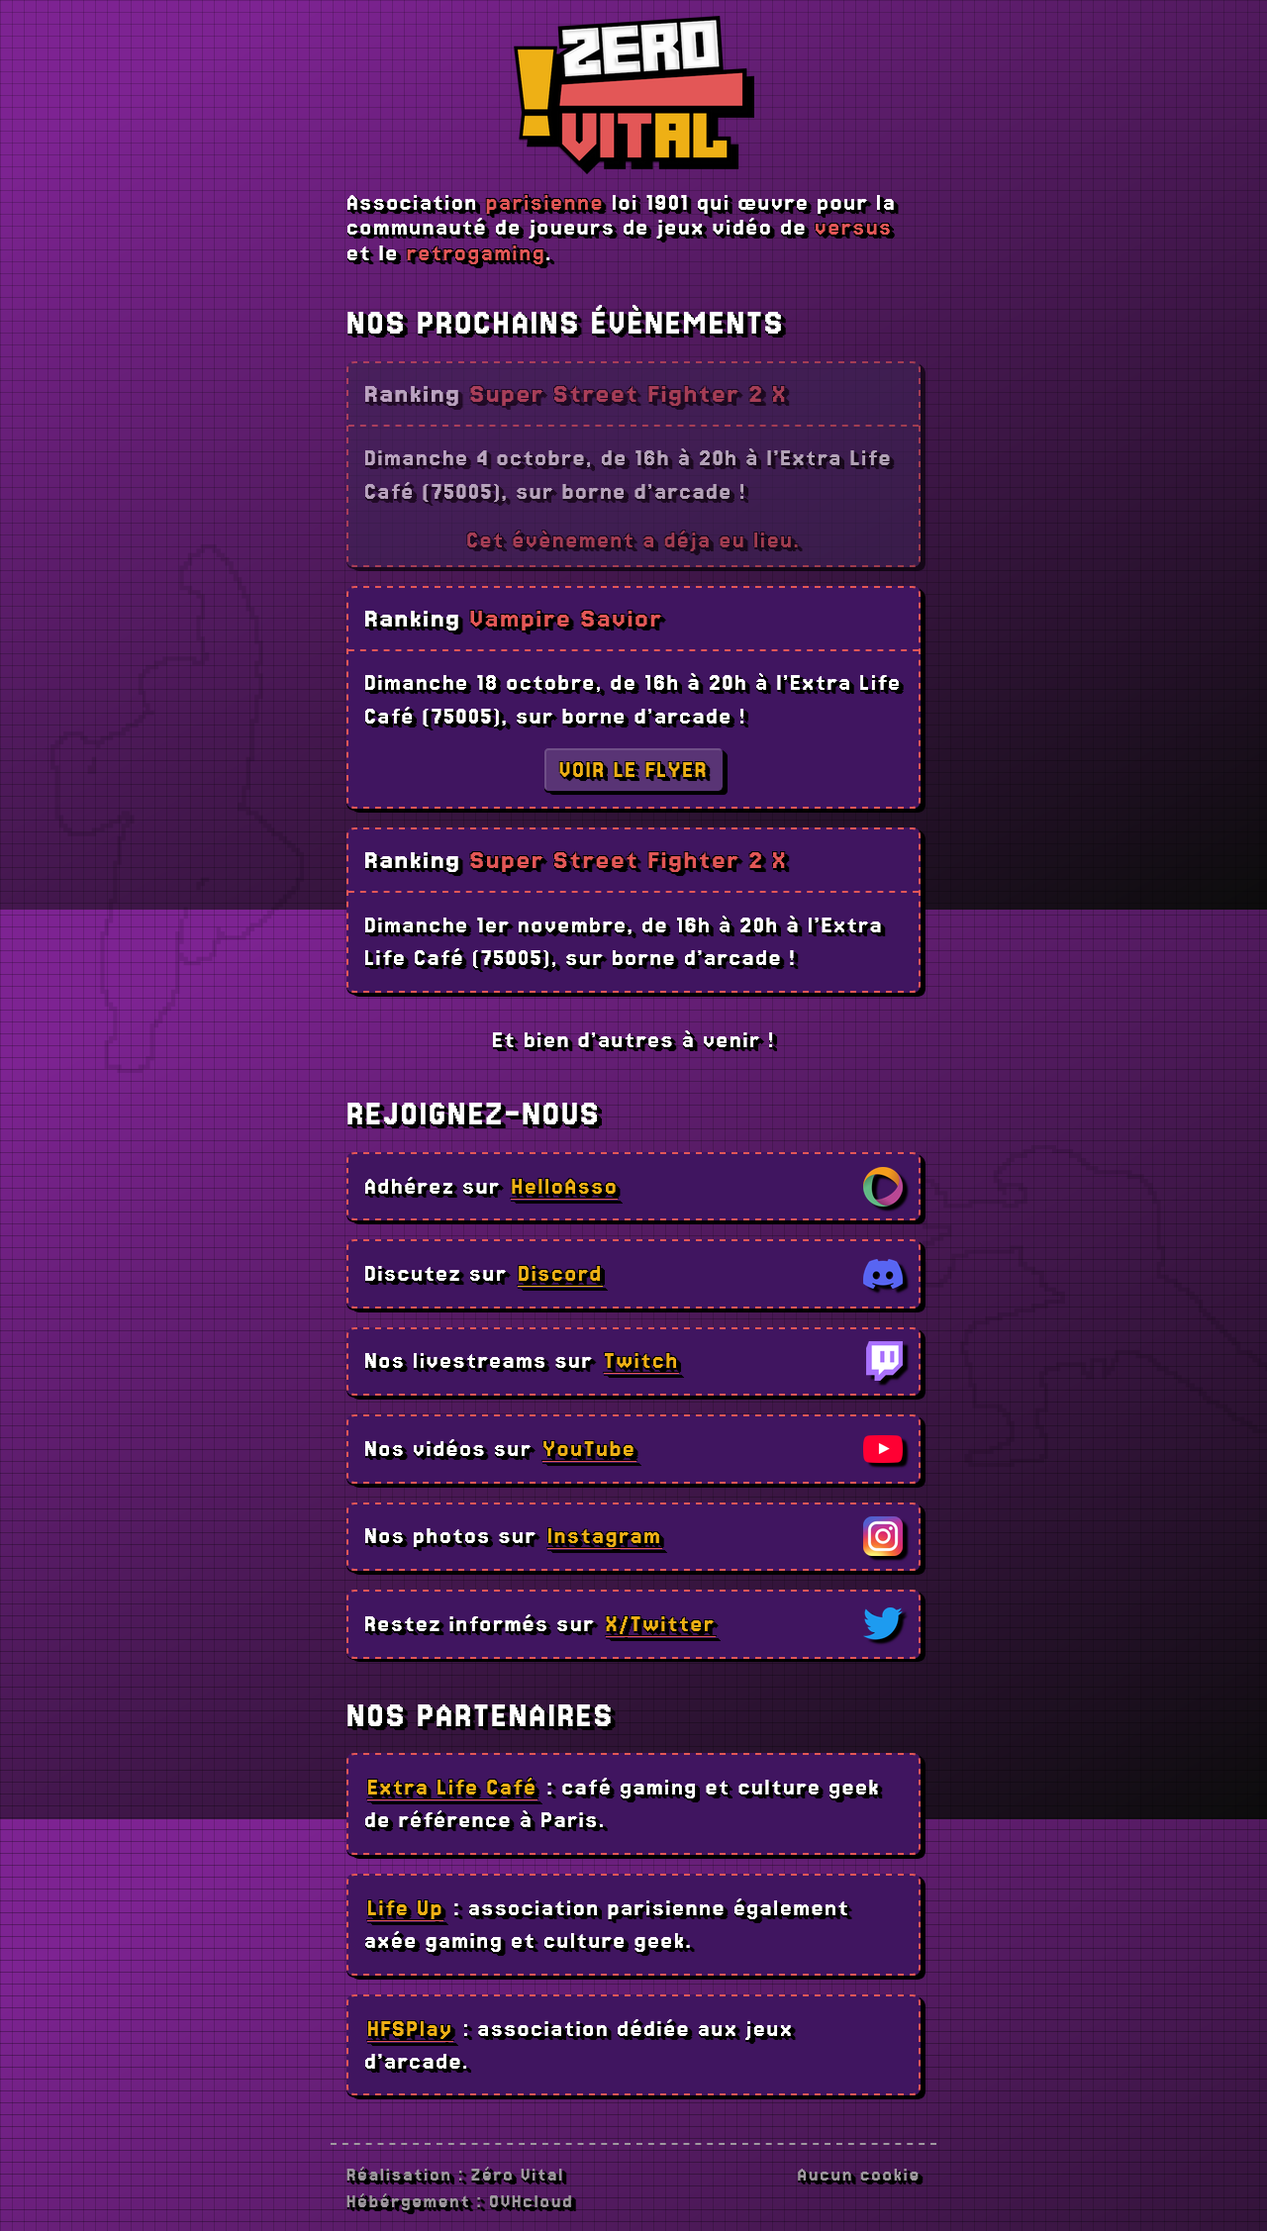
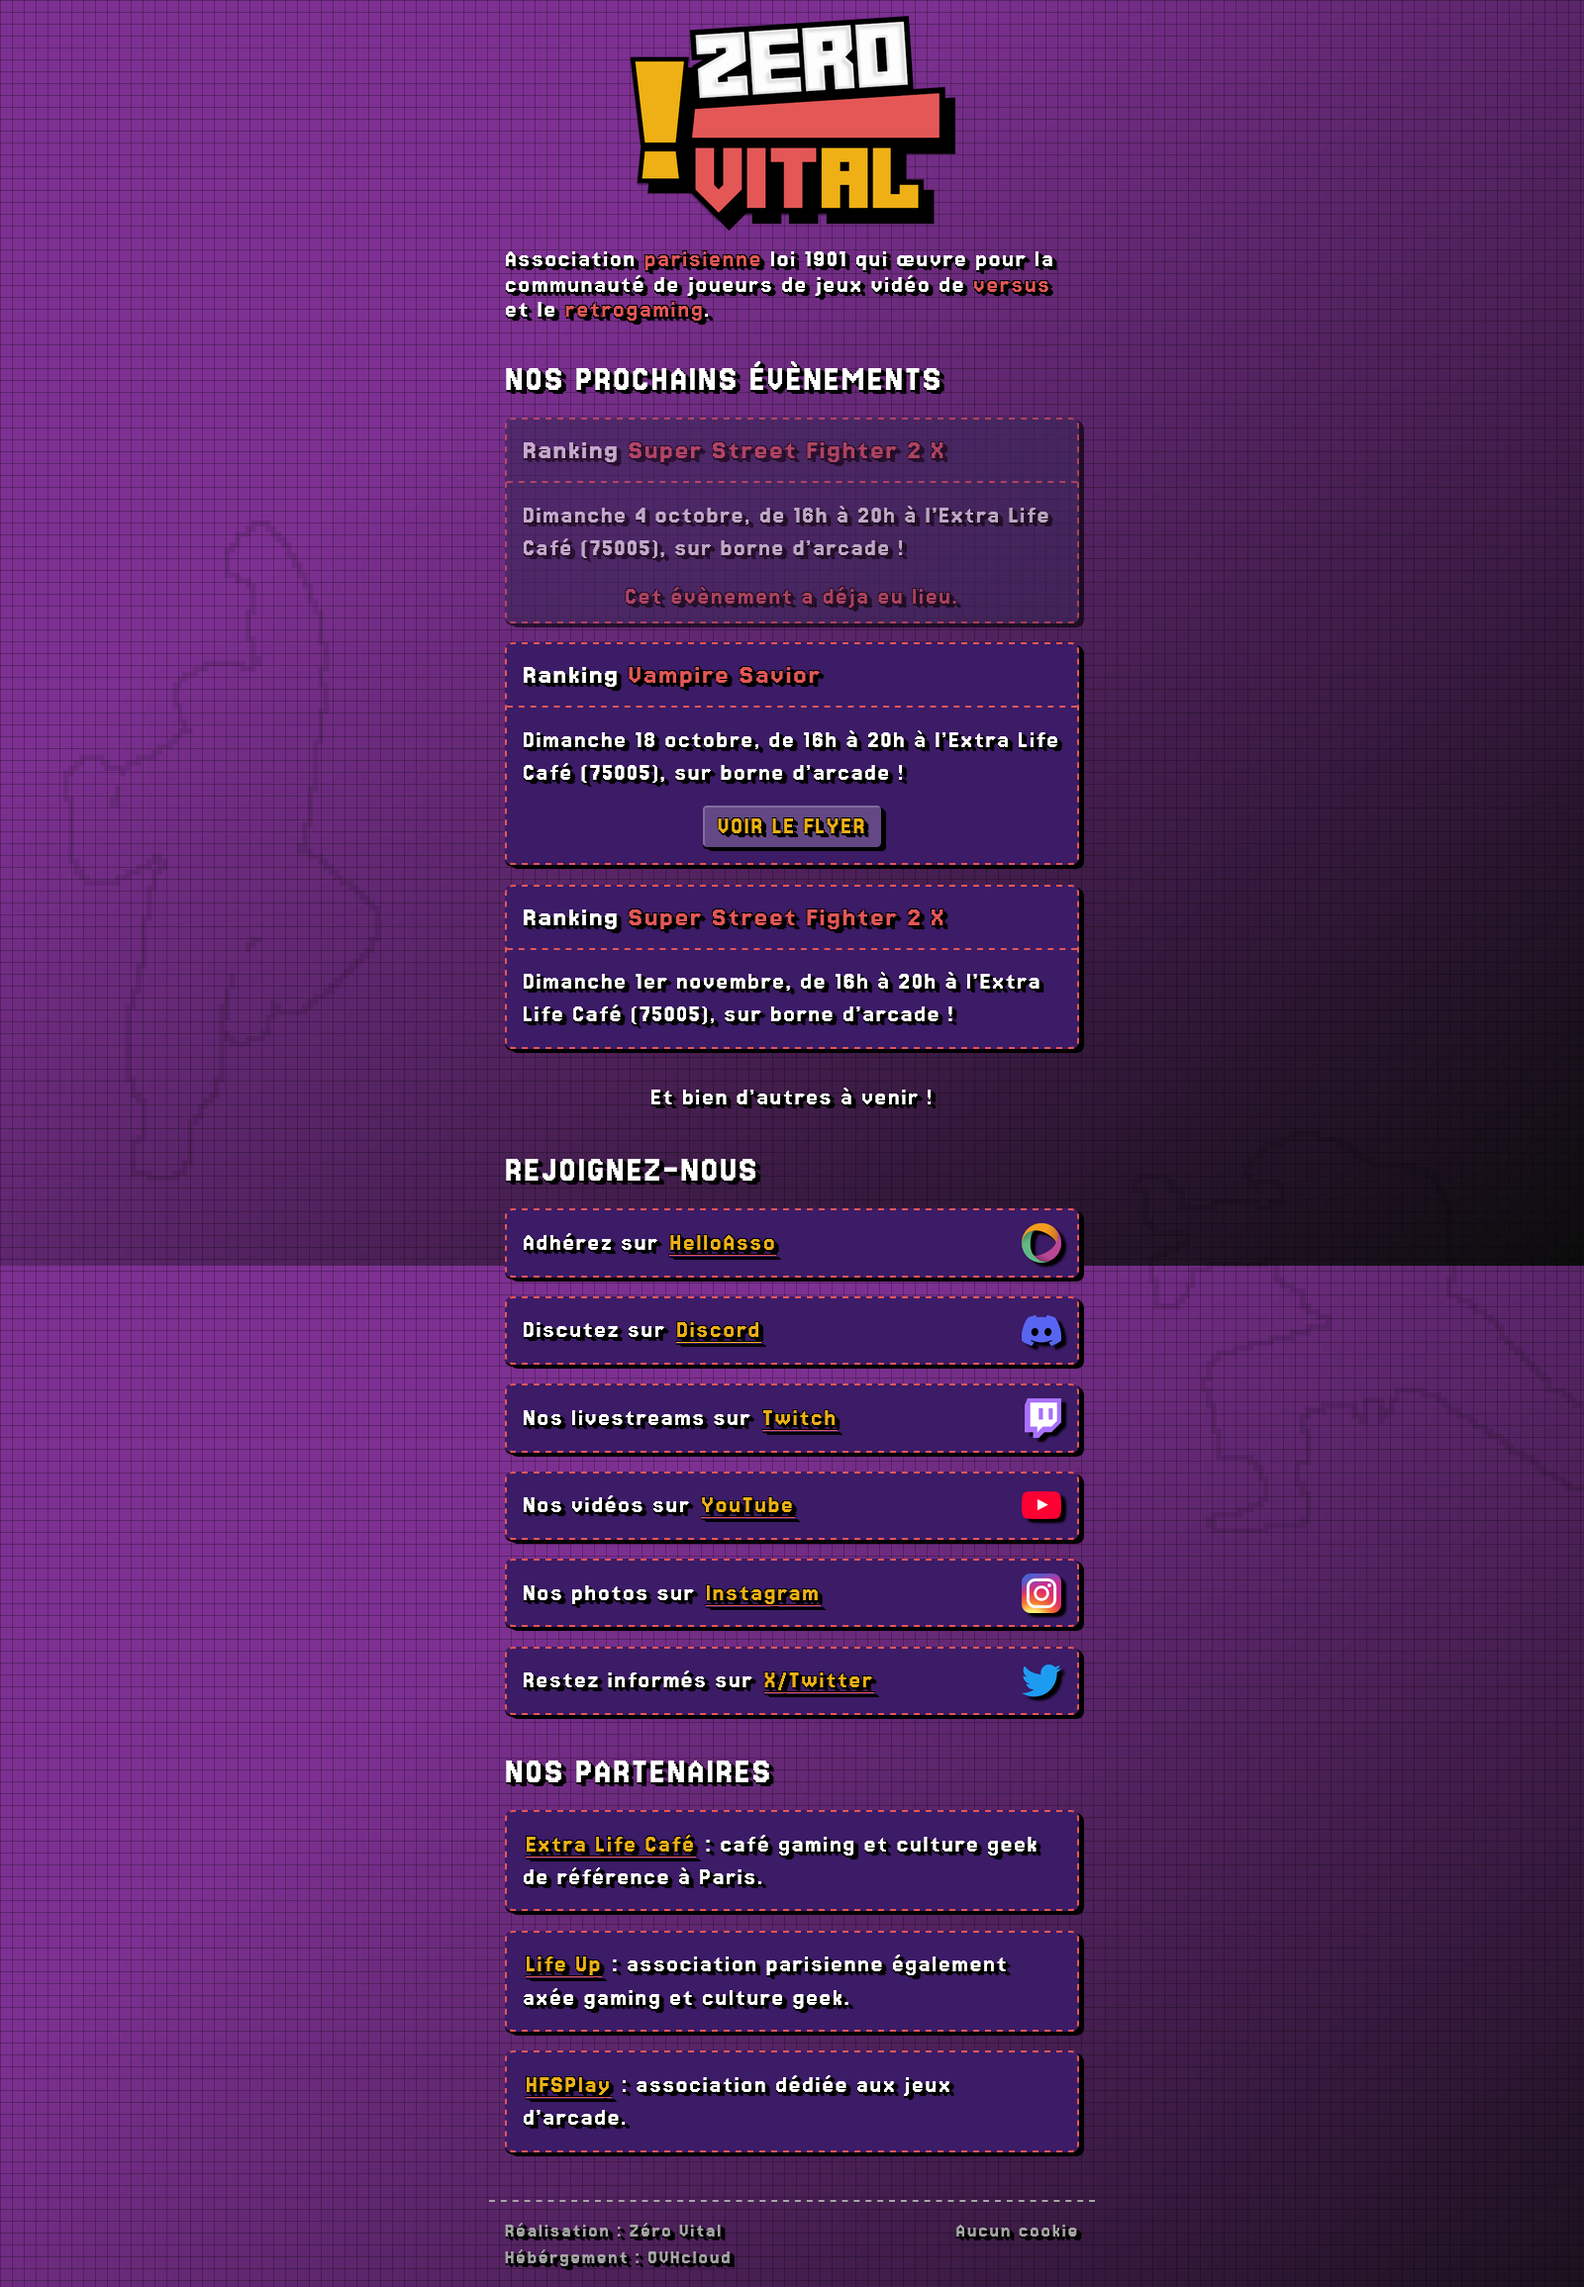
Lighter colors, improved color handling, update readme

diff --git a/styles.css b/styles.css
@@ -5,16 +5,18 @@
 }
 
 :root {
-  --bg-color: #7d2392;
-  --bg2-color: #401560;
-  --bg-darken: #0005;
-  --bg-lighten: #fff2;
-  --txt-color: #fff;
-  --txt2-color: #a099a0;
+  --bg-color: #7d3092;
+  --bg2-color: color-mix(in oklab, var(--bg-color) 50%, #050120);
+  --bright: #fff;
+  --dark: #000;
+  --bg-darken: color-mix(in oklab, var(--dark) 50%, transparent);
+  --bg-lighten: color-mix(in oklab, var(--bright) 20%, transparent);
+  --txt-color: var(--bright);
+  --txt2-color: color-mix(in oklab, var(--txt-color) 60%, #333);
   --alt-color: #eeb015;
   --alt2-color: #e35757;
-  --top-shadow: -1px -1px 1px #000, 1px -1px 1px #000;
-  --drop-shadow: 5px 4px 1px #000, 4px 3px 1px #000, 3px 2px 1px #000, 0 2px 1px #000;
+  --top-shadow: -1px -1px 1px var(--dark), 1px -1px 1px var(--dark);
+  --drop-shadow: 5px 4px 1px var(--dark), 4px 3px 1px var(--dark), 3px 2px 1px var(--dark), 0 2px 1px var(--dark);
   --radius: 4px;
   --speed: 300ms;
   --font-size: 1.6rem;
@@ -46,7 +48,7 @@ html {
   height: 100%;
   box-sizing: border-box;
   background-color: var(--bg-color);
-  background-image: linear-gradient(150deg, var(--bg-color) 0%, var(--bg-color) 10%, #0c0c0c);
+  background-image: linear-gradient(140deg, var(--bg-color) 0%, var(--bg-color) 30%, #0c0c0c);
   background-attachment: fixed;
   color: var(--txt-color);
 }
@@ -216,7 +218,7 @@ ul {
     max-height: 2.5rem;
     max-width: 2.5rem;
     margin-inline-end: 1rem;
-    filter: drop-shadow(5px 4px 1px #000);
+    filter: drop-shadow(5px 4px 1px var(--dark));
 
     @media (max-width: 450px) {
       display: none;
@@ -303,7 +305,7 @@ footer {
 }
 
 .close {
-  background-color: #000;
+  background-color: var(--dark);
   text-align: center;
   padding-block: 1rem;
 }
@@ -325,7 +327,7 @@ dialog {
   margin: auto;
   border: none;
   border-radius: var(--radius);
-  background-color: #000;
+  background-color: var(--dark);
   color: var(--txt-color);
 
   img {
@@ -333,7 +335,7 @@ dialog {
   }
 
   &::backdrop {
-    background-color: #0009;
+    background-color: var(--dark) 9;
   }
 
   &[popover] {

diff --git a/README.md b/README.md
@@ -6,7 +6,7 @@
 - mettre en avant les prochains évènements ;
 - être agréable à consulter et accessible ;
 - être facile à modifier et à déployer ;
-- être plus utile et moins cher qu’un « arbre à liens » ;
+- être plus utile et moins cher qu’un « arbre à liens ».
 
 ## Liens
 
@@ -66,9 +66,19 @@ Pour le moment, les règles en place sont :
 
 # Cookies
 
-Désolé, il n’y a pas de cookie ici. Pas besoin, et pas envie de vous tracker non plus.  
-Mais dans le doute, un script vérifie la présence de cookies et en affiche la liste le cas échéant. À vous de vérifier et de les supprimer.  
+Dans nos jeux favoris, nous distribuons des pains mais sur notre site on ne distribue pas de cookie.  
+Pas besoin, et pas envie de vous tracker non plus.  
+Pour s’en assurer un script vérifie la présence de cookies et en affiche la liste (dans le pied de page) le cas échéant. À vous de vérifier et de les supprimer.  
 Si un jour, le besoin de déposer un cookie purement technique arrive, nous le signalerons.
+
+# Code
+
+La page est simple, évitons de construire une usine autour.  
+Pas de NodeJs, pas de paquet à installer et mettre à jour, pas de compilation, etc. Juste du HTML, du JavaScript et du CSS.  
+Si seulement un jour, le support de TypeScript devenait natif…
+
+Aucun LLM n’a été utilisé lors de la réalisation de ce site.  
+Toute contribution utilisant l’IA ne sera pas rejetée pour autant, mais je vous demanderais de comprendre le code produit et les connaissances de vos actes.
 
 # Aperçu
 
